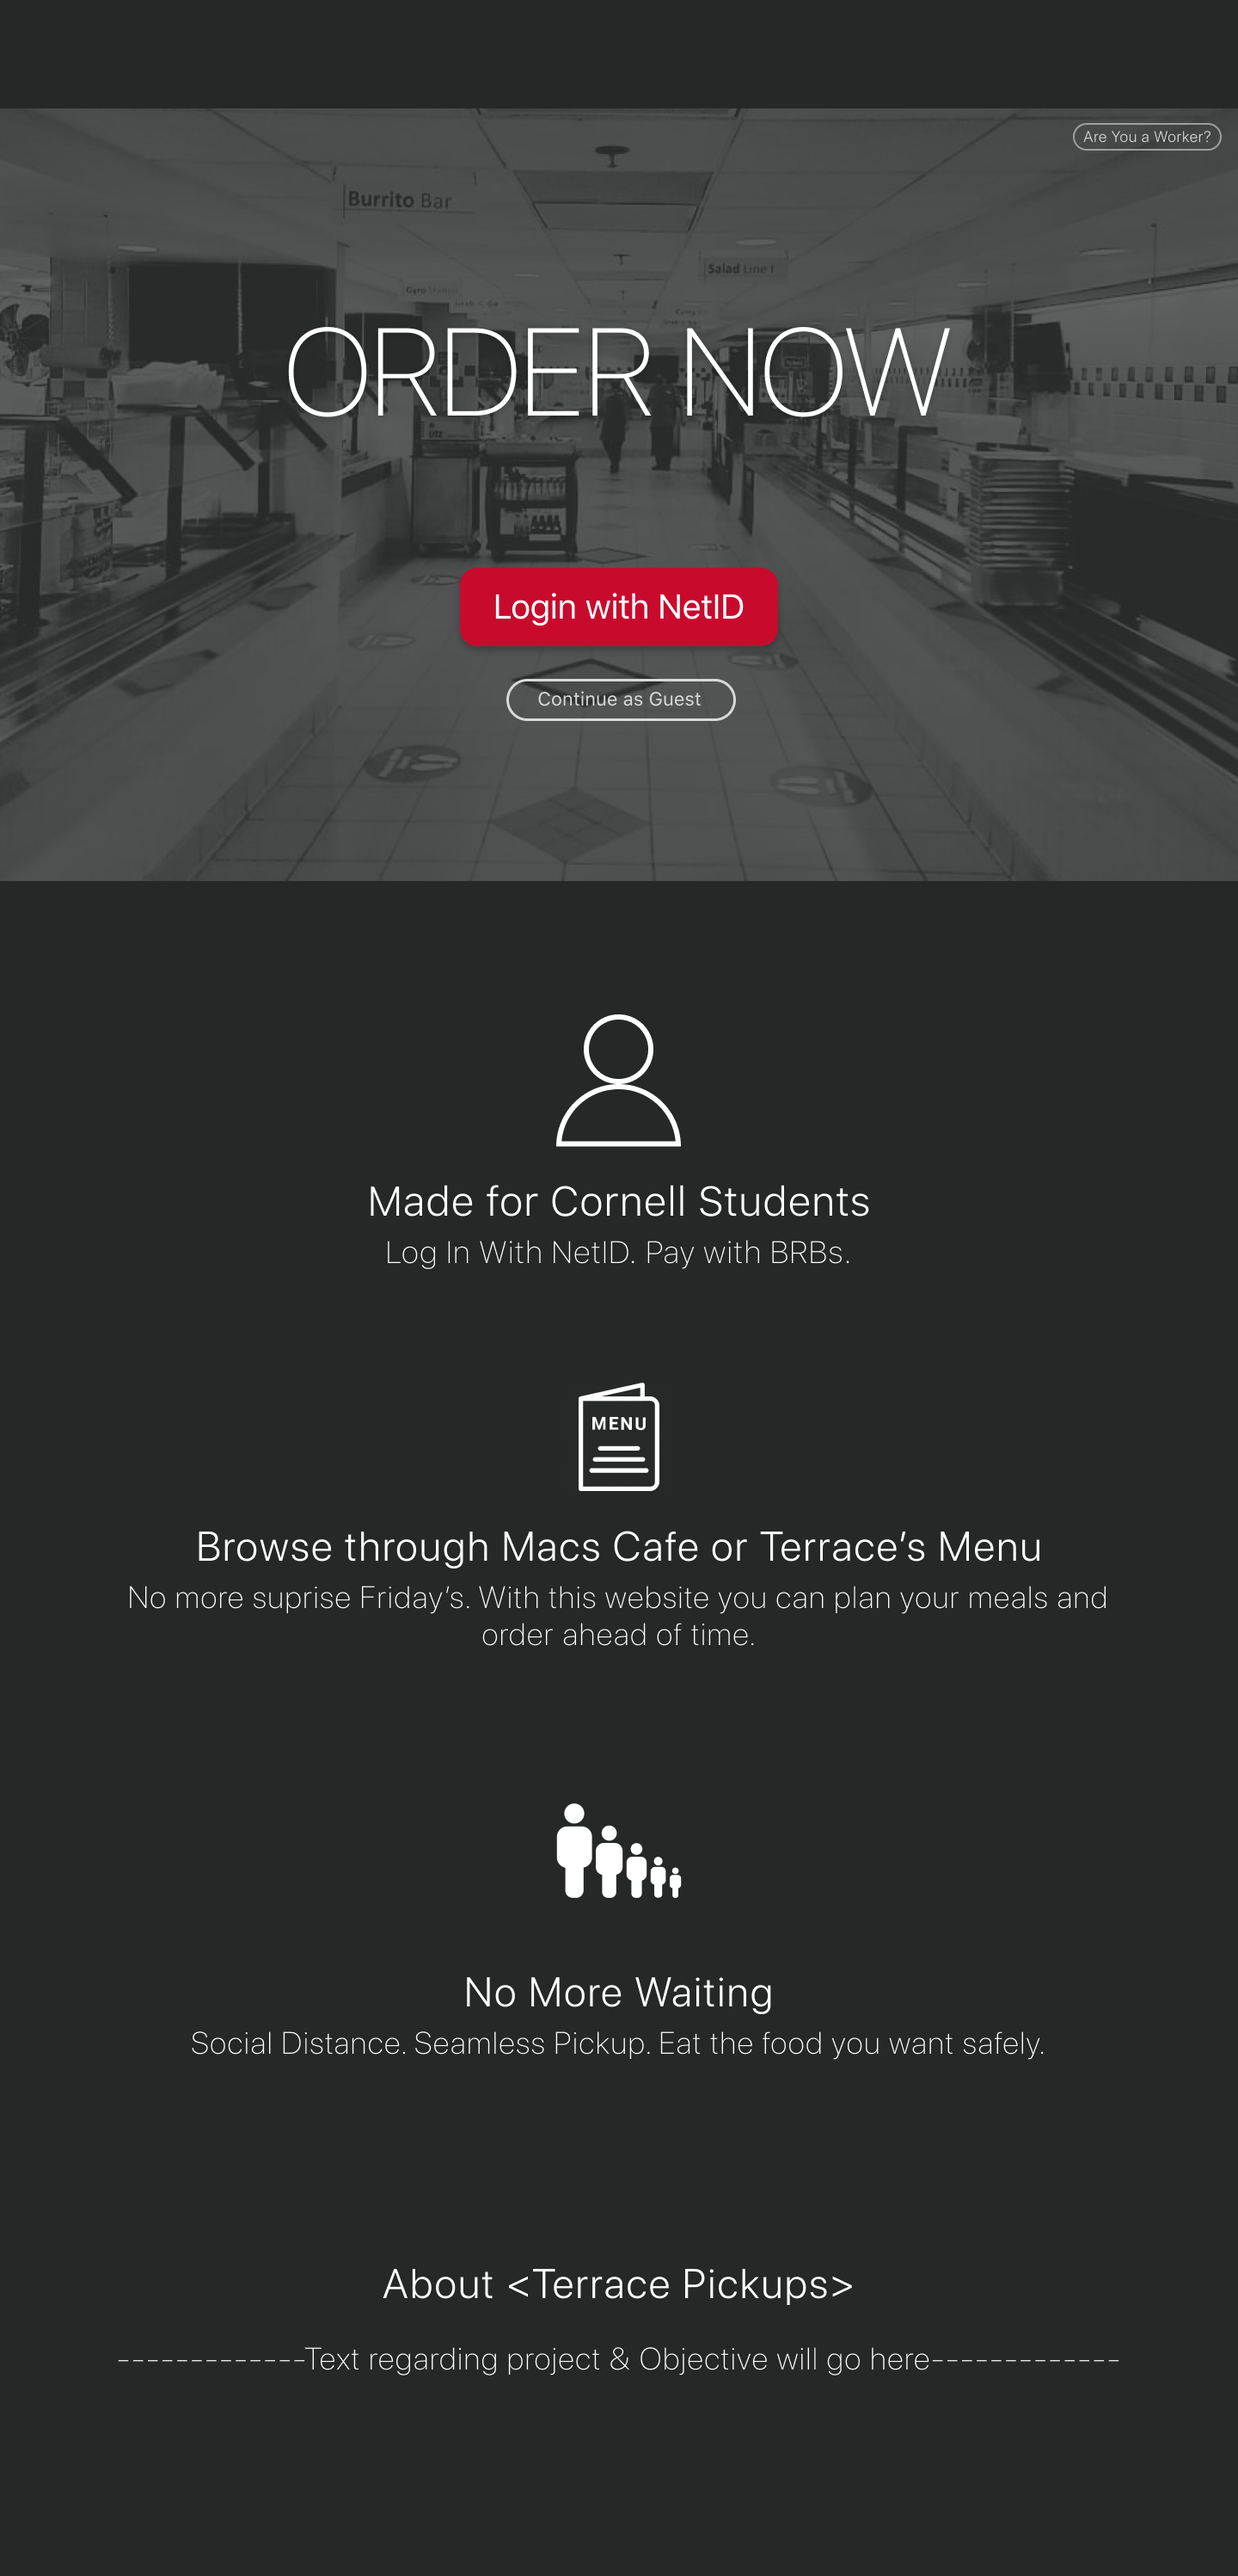
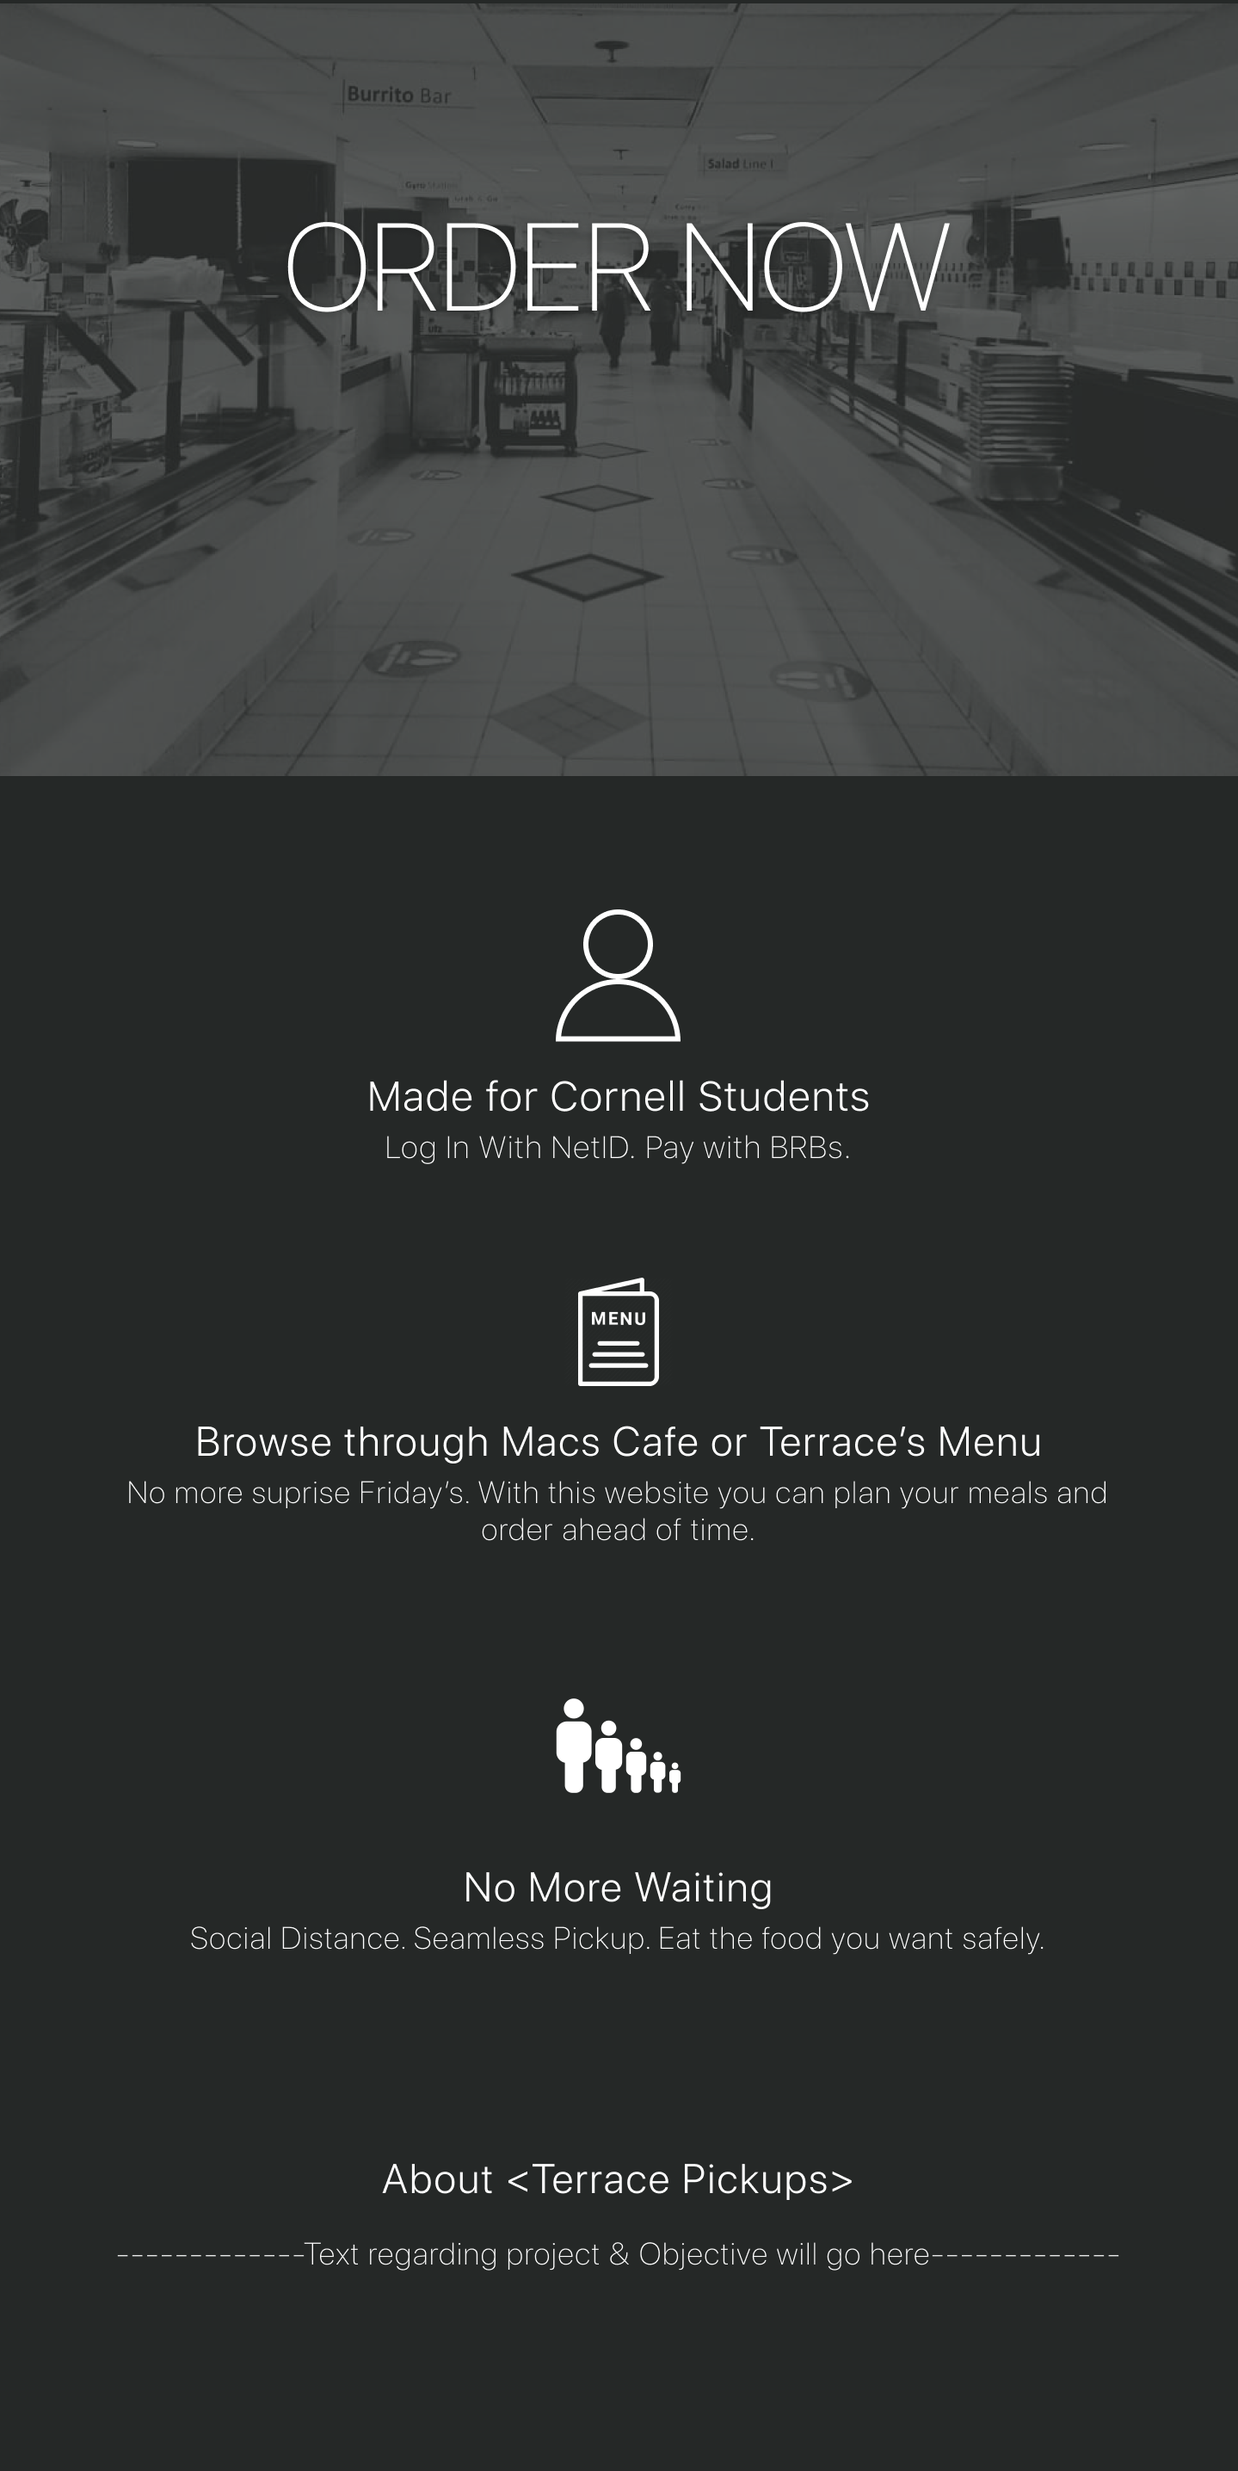
routing

diff --git a/flask-server/templates/index.html b/flask-server/templates/index.html
@@ -1,1 +1,1 @@
-<!doctype html><html lang="en"><head><meta charset="utf-8"/><link rel="icon" href="/static/react/favicon.ico"/><meta name="viewport" content="width=device-width,initial-scale=1"/><meta name="theme-color" content="#000000"/><meta name="description" content="Web site created using create-react-app"/><link rel="apple-touch-icon" href="/static/react/logo192.png"/><link rel="manifest" href="/static/react/manifest.json"/><link rel="stylesheet" href="https://maxcdn.bootstrapcdn.com/bootstrap/3.3.7/css/bootstrap.min.css" integrity="sha384-BVYiiSIFeK1dGmJRAkycuHAHRg32OmUcww7on3RYdg4Va+PmSTsz/K68vbdEjh4u" crossorigin="anonymous"><title>React App</title><link href="/static/react/static/css/main.61a60003.chunk.css" rel="stylesheet"></head><body><noscript>You need to enable JavaScript to run this app.</noscript><div id="root"></div><script>!function(e){function r(r){for(var n,a,l=r[0],c=r[1],i=r[2],p=0,s=[];p<l.length;p++)a=l[p],Object.prototype.hasOwnProperty.call(o,a)&&o[a]&&s.push(o[a][0]),o[a]=0;for(n in c)Object.prototype.hasOwnProperty.call(c,n)&&(e[n]=c[n]);for(f&&f(r);s.length;)s.shift()();return u.push.apply(u,i||[]),t()}function t(){for(var e,r=0;r<u.length;r++){for(var t=u[r],n=!0,l=1;l<t.length;l++){var c=t[l];0!==o[c]&&(n=!1)}n&&(u.splice(r--,1),e=a(a.s=t[0]))}return e}var n={},o={1:0},u=[];function a(r){if(n[r])return n[r].exports;var t=n[r]={i:r,l:!1,exports:{}};return e[r].call(t.exports,t,t.exports,a),t.l=!0,t.exports}a.m=e,a.c=n,a.d=function(e,r,t){a.o(e,r)||Object.defineProperty(e,r,{enumerable:!0,get:t})},a.r=function(e){"undefined"!=typeof Symbol&&Symbol.toStringTag&&Object.defineProperty(e,Symbol.toStringTag,{value:"Module"}),Object.defineProperty(e,"__esModule",{value:!0})},a.t=function(e,r){if(1&r&&(e=a(e)),8&r)return e;if(4&r&&"object"==typeof e&&e&&e.__esModule)return e;var t=Object.create(null);if(a.r(t),Object.defineProperty(t,"default",{enumerable:!0,value:e}),2&r&&"string"!=typeof e)for(var n in e)a.d(t,n,function(r){return e[r]}.bind(null,n));return t},a.n=function(e){var r=e&&e.__esModule?function(){return e.default}:function(){return e};return a.d(r,"a",r),r},a.o=function(e,r){return Object.prototype.hasOwnProperty.call(e,r)},a.p="/static/react/";var l=this.webpackJsonpterrace=this.webpackJsonpterrace||[],c=l.push.bind(l);l.push=r,l=l.slice();for(var i=0;i<l.length;i++)r(l[i]);var f=c;t()}([])</script><script src="/static/react/static/js/2.94f84998.chunk.js"></script><script src="/static/react/static/js/main.187353c3.chunk.js"></script></body></html>
+<!doctype html><html lang="en"><head><meta charset="utf-8"/><link rel="icon" href="/static/react/favicon.ico"/><meta name="viewport" content="width=device-width,initial-scale=1"/><meta name="theme-color" content="#000000"/><meta name="description" content="Web site created using create-react-app"/><link rel="apple-touch-icon" href="/static/react/logo192.png"/><link rel="manifest" href="/static/react/manifest.json"/><link rel="stylesheet" href="https://maxcdn.bootstrapcdn.com/bootstrap/3.3.7/css/bootstrap.min.css" integrity="sha384-BVYiiSIFeK1dGmJRAkycuHAHRg32OmUcww7on3RYdg4Va+PmSTsz/K68vbdEjh4u" crossorigin="anonymous"><title>React App</title><link href="/static/react/static/css/main.77555c87.chunk.css" rel="stylesheet"></head><body><noscript>You need to enable JavaScript to run this app.</noscript><div id="root"></div><script>!function(e){function r(r){for(var n,a,l=r[0],c=r[1],i=r[2],p=0,s=[];p<l.length;p++)a=l[p],Object.prototype.hasOwnProperty.call(o,a)&&o[a]&&s.push(o[a][0]),o[a]=0;for(n in c)Object.prototype.hasOwnProperty.call(c,n)&&(e[n]=c[n]);for(f&&f(r);s.length;)s.shift()();return u.push.apply(u,i||[]),t()}function t(){for(var e,r=0;r<u.length;r++){for(var t=u[r],n=!0,l=1;l<t.length;l++){var c=t[l];0!==o[c]&&(n=!1)}n&&(u.splice(r--,1),e=a(a.s=t[0]))}return e}var n={},o={1:0},u=[];function a(r){if(n[r])return n[r].exports;var t=n[r]={i:r,l:!1,exports:{}};return e[r].call(t.exports,t,t.exports,a),t.l=!0,t.exports}a.m=e,a.c=n,a.d=function(e,r,t){a.o(e,r)||Object.defineProperty(e,r,{enumerable:!0,get:t})},a.r=function(e){"undefined"!=typeof Symbol&&Symbol.toStringTag&&Object.defineProperty(e,Symbol.toStringTag,{value:"Module"}),Object.defineProperty(e,"__esModule",{value:!0})},a.t=function(e,r){if(1&r&&(e=a(e)),8&r)return e;if(4&r&&"object"==typeof e&&e&&e.__esModule)return e;var t=Object.create(null);if(a.r(t),Object.defineProperty(t,"default",{enumerable:!0,value:e}),2&r&&"string"!=typeof e)for(var n in e)a.d(t,n,function(r){return e[r]}.bind(null,n));return t},a.n=function(e){var r=e&&e.__esModule?function(){return e.default}:function(){return e};return a.d(r,"a",r),r},a.o=function(e,r){return Object.prototype.hasOwnProperty.call(e,r)},a.p="/static/react/";var l=this.webpackJsonpterrace=this.webpackJsonpterrace||[],c=l.push.bind(l);l.push=r,l=l.slice();for(var i=0;i<l.length;i++)r(l[i]);var f=c;t()}([])</script><script src="/static/react/static/js/2.a7010c8e.chunk.js"></script><script src="/static/react/static/js/main.0fd4ed2f.chunk.js"></script></body></html>

diff --git a/react-app/src/App.js b/react-app/src/App.js
@@ -6,6 +6,37 @@ import { LinkContainer } from 'react-router-bootstrap';
 import './css/App.css';
 import BuildBurrito from './BuildBurrito'
 import land from './assets/land.png'
+import login from './assets/login.png'
+import loginbutton from './assets/loginwnetid.png'
+import guestbutton from './assets/guestlogin.png'
+import macsbutton from './assets/macsbutton.png'
+import terracebutton from './assets/terracebutton.png'
+
+const Land = () => {
+  return (
+    <span>
+      <img src={land} alt="landing page" width="100%" height="100%" >
+      </img>
+      <LinkContainer to="/login">
+        <img className="login-button" src={loginbutton} alt="login"></img>
+      </LinkContainer>
+      <img className="guest-login" src={guestbutton} alt="guest"></img>
+    </span>
+  );
+}
+
+const Land2 = () => {
+  return (
+    <span>
+      <img src={land} alt="second landing page" width="100%" height="100%" >
+      </img>
+      <LinkContainer to="/burrito">
+        <img className="terrace-button" src={terracebutton} alt="terrace button"></img>
+      </LinkContainer>
+      <img className="mac-button" src={macsbutton} alt="macs button"></img>
+    </span>
+  );
+}
 
 
 class App extends Component {
@@ -17,8 +48,17 @@ class App extends Component {
           <Route path="/burrito">
             <BuildBurrito />
           </Route>
+          <Route path="/login">
+            <LinkContainer to="/land2">
+              <img src={login} alt="login page" width="100%" height="100%" >
+              </img>
+            </LinkContainer>
+          </Route>
+          <Route path="/land2">
+            <Land2 />
+          </Route>
           <Route path="/">
-            <img src={land} alt="landing page" width="100%" height="100%" ></img>
+            <Land />
           </Route>
         </Switch>
             Navigate to{' '}

diff --git a/react-app/src/css/App.css b/react-app/src/css/App.css
@@ -40,3 +40,48 @@
     transform: rotate(360deg);
   }
 }
+
+.login-button{
+  position: absolute;
+  width: 370px;
+  height: 91px;
+  top: 660px;
+  left:50%;
+  transform: translateX(-50%);
+
+  filter: drop-shadow(0px 5px 10px rgba(0, 0, 0, 0.25));
+}
+
+
+.mac-button{
+  position: absolute;
+  width: 370px;
+  height: 91px;
+  top: 660px;
+  left:50%;
+  transform: translateX(-150%);
+
+  filter: drop-shadow(0px 5px 10px rgba(0, 0, 0, 0.25));
+}
+
+.terrace-button{
+  position: absolute;
+  width: 370px;
+  height: 91px;
+  top: 660px;
+  left:50%;
+  transform: translateX(50%);
+
+  filter: drop-shadow(0px 5px 10px rgba(0, 0, 0, 0.25));
+}
+
+.guest-login{
+  position: absolute;
+  width: 267px;
+  height: 49px;
+  left:50%;
+  transform: translateX(-50%);
+  margin: 0 auto; 
+  top: 789px;
+
+}

diff --git a/flask-server/static/react/service-worker.js b/flask-server/static/react/service-worker.js
@@ -14,7 +14,7 @@
 importScripts("https://storage.googleapis.com/workbox-cdn/releases/4.3.1/workbox-sw.js");
 
 importScripts(
-  "/static/react/precache-manifest.bbc3d0a8b70bb285a09708be6bf41b47.js"
+  "/static/react/precache-manifest.f9226e62fe57e69bdfeb389978b82fa3.js"
 );
 
 self.addEventListener('message', (event) => {
